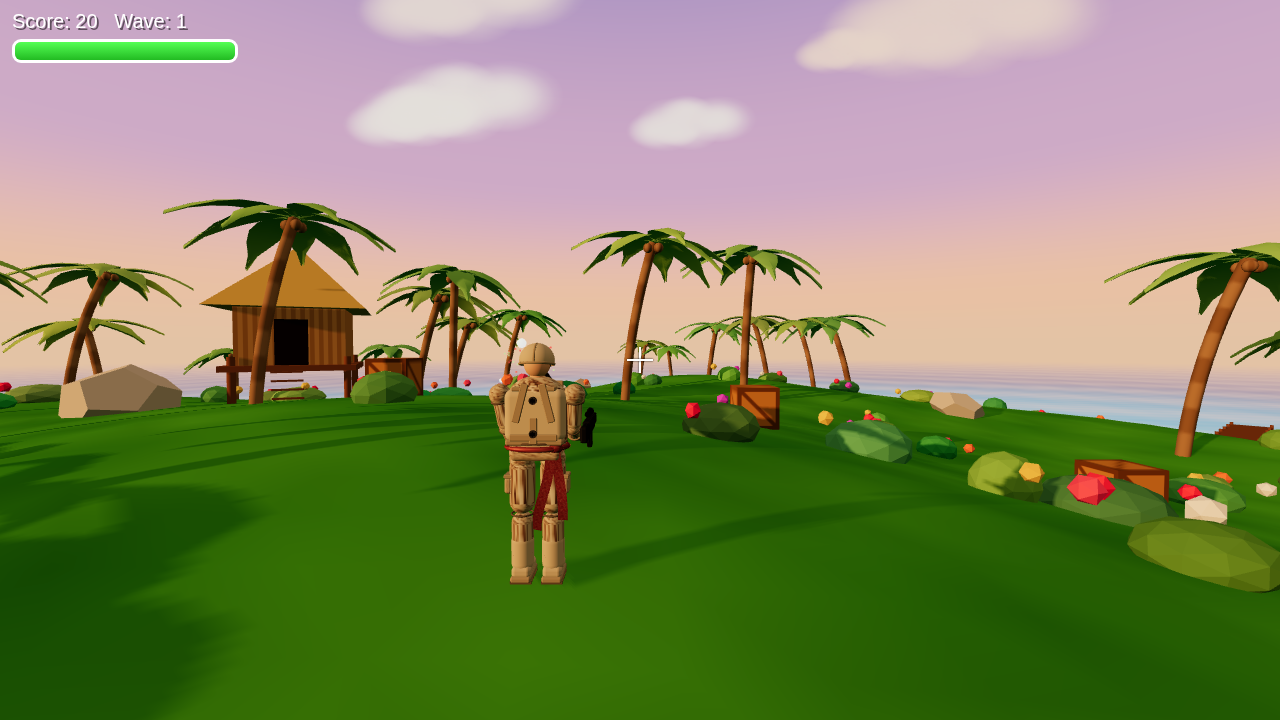
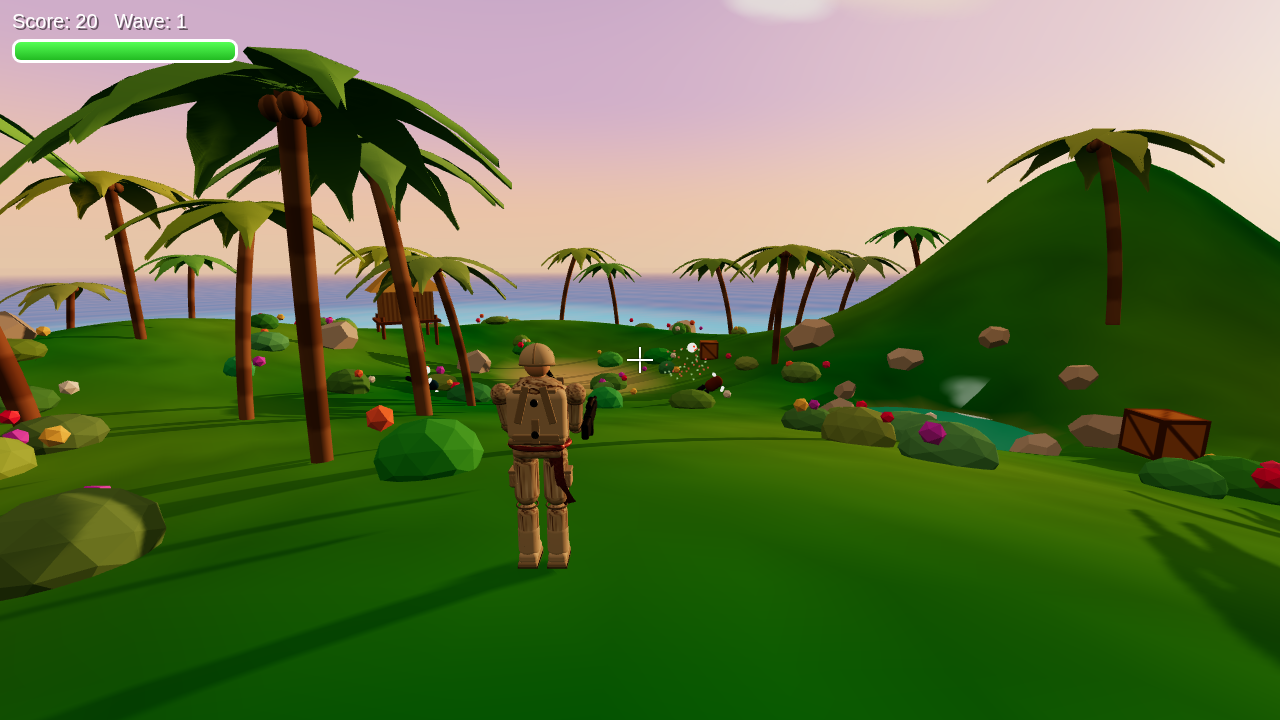
Graphics polish, slower eased auto-aim retarget

diff --git a/main.js b/main.js
@@ -3,12 +3,12 @@ import {buildWorld,groundH,islandD,shoreR,SUN_DIR,FOG_COLOR} from './world.js';
 const $=id=>document.getElementById(id),Q=new URLSearchParams(location.search),DEBUG=Q.get('debug')==='1';
 const MOBILE=matchMedia('(pointer:coarse)').matches||'ontouchstart' in window;if(MOBILE)document.body.classList.add('touch');
 const renderer=new THREE.WebGLRenderer({antialias:!MOBILE,powerPreference:'high-performance'});renderer.setPixelRatio(Math.min(devicePixelRatio,MOBILE?1.5:2));renderer.setSize(innerWidth,innerHeight);
-renderer.shadowMap.enabled=true;renderer.shadowMap.type=THREE.PCFSoftShadowMap;renderer.toneMapping=THREE.ACESFilmicToneMapping;renderer.toneMappingExposure=1.05;document.body.appendChild(renderer.domElement);
-const scene=new THREE.Scene();scene.fog=new THREE.Fog(FOG_COLOR,60,320);
+renderer.shadowMap.enabled=true;renderer.shadowMap.type=THREE.PCFSoftShadowMap;renderer.toneMapping=THREE.ACESFilmicToneMapping;renderer.toneMappingExposure=1.1;renderer.outputColorSpace=THREE.SRGBColorSpace;document.body.appendChild(renderer.domElement);
+const scene=new THREE.Scene();scene.fog=new THREE.Fog(FOG_COLOR,90,520);
 const cam=new THREE.PerspectiveCamera(70,innerWidth/innerHeight,.1,7000);cam.rotation.order='YXZ';
-scene.add(new THREE.HemisphereLight(0xffd9b0,0x4d6b3a,1.15));
+scene.add(new THREE.HemisphereLight(0xffd2a8,0x3a5230,1.0));
 const sun=new THREE.DirectionalLight(0xffb878,2.6);sun.castShadow=true;const S=MOBILE?1024:2048;sun.shadow.mapSize.set(S,S);
-Object.assign(sun.shadow.camera,{left:-30,right:30,top:30,bottom:-30,near:1,far:200});sun.shadow.bias=-.0005;sun.shadow.normalBias=.04;scene.add(sun,sun.target);
+Object.assign(sun.shadow.camera,{left:-30,right:30,top:30,bottom:-30,near:1,far:200});sun.shadow.bias=-.0003;sun.shadow.normalBias=.03;sun.shadow.radius=3;scene.add(sun,sun.target);
 const W=buildWorld(scene,MOBILE);const solids=W.solids;
 const rnd=(a,b)=>a+Math.random()*(b-a);
 const player=makeSoldier();player.rotation.order='YXZ';scene.add(player);
@@ -48,8 +48,8 @@ function moveInput(){let mx=(keys.KeyW||keys.ArrowUp?1:0)-(keys.KeyS||keys.Arrow
  const m=v.length();if(m>1)v.divideScalar(m);return m<.15?v.set(0,0,0):v;}
 // ---------- zombies ----------
 const toon=c=>new THREE.MeshLambertMaterial({color:c});
-const zSkin=toon(0x86d94e),shirts=[0xa04fd9,0xff8c2a,0x2ab3ff,0xe03a7a].map(toon),zPants=toon(0x3d4a8a),eyeM=new THREE.MeshBasicMaterial({color:0xff2a00});
-function makeZombie(){const g=new THREE.Group(),mats=[zSkin.clone(),shirts[Math.random()*4|0].clone(),zPants.clone()];mats.forEach(m=>m.transparent=true);
+const zSkin=toon(0x86d94e),shirts=[0x5a2d78,0x8a4a1c,0x1f4f6e,0x6e1f3a,0x3d4a2a].map(toon),zPants=toon(0x2a2f4a),eyeM=new THREE.MeshBasicMaterial({color:0xff2a00});
+function makeZombie(){const g=new THREE.Group(),mats=[zSkin.clone(),shirts[Math.random()*5|0].clone(),zPants.clone()];mats[0].color.offsetHSL(rnd(-.04,.04),rnd(-.15,.05),rnd(-.08,.04));mats.forEach(m=>m.transparent=true);
  const M=(geo,m,x,y,z,p=g)=>{const o=new THREE.Mesh(geo,m);o.position.set(x,y,z);o.castShadow=true;p.add(o);o.userData.root=g;return o};
  M(new THREE.CapsuleGeometry(.26,.35,4,10),mats[1],0,1.3,0).scale.set(1.1,1,.7);const head=M(new THREE.SphereGeometry(.24,14,10),mats[0],0,1.9,.06);
  M(new THREE.SphereGeometry(.05,8,6),eyeM,-.09,.04,.21,head);M(new THREE.SphereGeometry(.05,8,6),eyeM,.09,.04,.21,head);
@@ -67,21 +67,24 @@ function collide(p,r){for(const c of W.circles){const dx=p.x-c.x,dz=p.z-c.z,d=Ma
  const R=Math.hypot(p.x,p.z),lim=shoreR(Math.atan2(p.z,p.x))*.97;if(R>lim){p.x*=lim/R;p.z*=lim/R;}}
 function jump(){if(mode==='play'&&player.position.y<=groundH(player.position.x,player.position.z)+.01){vy=6.5;snd(300,.15,'sine',.1,2);}}
 // ---------- shooting / auto-aim ----------
-const rc=new THREE.Raycaster(),center=new THREE.Vector2(0,0),tmpV=new THREE.Vector3(),losRc=new THREE.Raycaster();let lockT=null,losT=0;
+const rc=new THREE.Raycaster(),center=new THREE.Vector2(0,0),tmpV=new THREE.Vector3(),losRc=new THREE.Raycaster();let lockT=null,losT=0,retWait=0,slow=null;const RET_DELAY=.25,RET_DUR=.7;
 const angD=a=>Math.atan2(Math.sin(a),Math.cos(a));
 function los(z){z.userData.head.getWorldPosition(tmpV);const d=tmpV.clone().sub(cam.position);const L=d.length();losRc.set(cam.position,d.normalize());losRc.far=L-.3;return !losRc.intersectObjects(solids,false).length;}
-function autoAim(dt){if(!(firing||fireId!==null)){lockT=null;return;}
- if(lockT&&(lockT.userData.dead||!zombies.includes(lockT)))lockT=null;
+function autoAim(dt){if(!(firing||fireId!==null)){lockT=null;slow=null;retWait=0;return;}
+ if(lockT&&(lockT.userData.dead||!zombies.includes(lockT))){lockT=null;retWait=RET_DELAY;slow=null;}
+ if(retWait>0){retWait-=dt;if(retWait>0)return;retWait=-1;}
  if(lockT&&(losT-=dt)<=0){losT=.25;if(!los(lockT))lockT=null;}
  if(!lockT){let best=null,bs=1e9;const f=new THREE.Vector3(-Math.sin(yaw),0,-Math.cos(yaw));
   for(const z of zombies){if(z.userData.dead)continue;const d=z.position.clone().sub(player.position);d.y=0;const dist=d.length();if(dist>45)continue;
-   const s=dist+Math.acos(THREE.MathUtils.clamp(d.normalize().dot(f),-1,1))*6;if(s<bs&&los(z)){bs=s;best=z;}}lockT=best;losT=.25;}
+   const s=dist+Math.acos(THREE.MathUtils.clamp(d.normalize().dot(f),-1,1))*6;if(s<bs&&los(z)){bs=s;best=z;}}lockT=best;losT=.25;if(best&&retWait<0)slow={t:0,y0:yaw,p0:pitch};retWait=0;}
  if(!lockT)return;lockT.userData.head.getWorldPosition(tmpV);const d=tmpV.clone().sub(cam.position).normalize();
- const k=Math.min(1,dt*12);yaw+=angD(Math.atan2(-d.x,-d.z)-yaw)*k;pitch+=(THREE.MathUtils.clamp(Math.asin(d.y),-.7,.55)-pitch)*k;}
-function updLock(){const el=$('lock');if(!lockT||lockT.userData.dead){el.style.display='none';return;}lockT.userData.head.getWorldPosition(tmpV);tmpV.project(cam);
+ const ty=Math.atan2(-d.x,-d.z),tp=THREE.MathUtils.clamp(Math.asin(d.y),-.7,.55);
+ if(slow){slow.t+=dt;const u=Math.min(1,slow.t/RET_DUR),e=u*u*(3-2*u);yaw=slow.y0+angD(ty-slow.y0)*e;pitch=slow.p0+(tp-slow.p0)*e;if(u>=1)slow=null;}
+ else{const k=Math.min(1,dt*12);yaw+=angD(ty-yaw)*k;pitch+=(tp-pitch)*k;}}
+function updLock(){const el=$('lock');if(!lockT||lockT.userData.dead){el.style.display='none';return;}el.style.opacity=slow?.5:1;lockT.userData.head.getWorldPosition(tmpV);tmpV.project(cam);
  if(tmpV.z>1){el.style.display='none';return;}el.style.display='block';el.style.left=((tmpV.x+1)/2*innerWidth)+'px';el.style.top=((1-tmpV.y)/2*innerHeight)+'px';}
 function shoot(){const u=player.userData;u.flash.visible=true;u.flashLight.intensity=8;u.flash.rotation.z=Math.random()*3;setTimeout(()=>{u.flash.visible=false;u.flashLight.intensity=0;},45);snd(900,.08,'square',.12,.2);
- if(lockT){lockT.userData.head.getWorldPosition(tmpV);rc.set(cam.position,tmpV.clone().sub(cam.position).normalize());}else rc.setFromCamera(center,cam);rc.far=150;
+ if(lockT&&!slow){lockT.userData.head.getWorldPosition(tmpV);rc.set(cam.position,tmpV.clone().sub(cam.position).normalize());}else rc.setFromCamera(center,cam);rc.far=150;
  const hits=rc.intersectObjects([...zombies.filter(z=>!z.userData.dead),...solids,W.ground],true);
  const o=new THREE.Vector3();u.muzzle.getWorldPosition(o);let end=hits.length?hits[0].point:rc.ray.at(150,new THREE.Vector3());
  if(hits.length){const z=hits[0].object.userData.root;if(z&&!z.userData.dead){z.userData.hp--;z.userData.hit=.1;const p=end.clone().sub(o).setY(0).normalize();z.position.addScaledVector(p,.25);
@@ -168,12 +171,12 @@ function loop(){requestAnimationFrame(loop);const dt=Math.min(clock.getDelta(),.
  else{const right=new THREE.Vector3(Math.cos(yaw),0,-Math.sin(yaw));cam.rotation.set(pitch,yaw,0);const f=new THREE.Vector3(0,0,-1).applyEuler(cam.rotation);
   const piv=new THREE.Vector3(P.x,P.y+1.75,P.z).addScaledVector(right,.8);const back=f.clone().negate();camRc.set(piv,back);camRc.far=4;const ch=camRc.intersectObjects(solids,false);
   cam.position.copy(piv).addScaledVector(back,ch.length?Math.max(.4,ch[0].distance-.3):4);const g=groundH(cam.position.x,cam.position.z)+.3;if(cam.position.y<g)cam.position.y=g;}
- const alt=Math.max(0,cam.position.y);scene.fog.near=60+alt*.6;scene.fog.far=320+alt*1.9;W.fogU.fogNear.value=scene.fog.near;W.fogU.fogFar.value=scene.fog.far;
+ const alt=Math.max(0,cam.position.y);scene.fog.near=90+alt*.7;scene.fog.far=520+alt*2.2;W.fogU.fogNear.value=scene.fog.near;W.fogU.fogFar.value=scene.fog.far;
  const nn=alt>150?1.5:.1;if(cam.near!==nn){cam.near=nn;cam.updateProjectionMatrix();}
  const sc=mode==='intro'?(iPhase==='heli'?heli.position:P):P;sun.position.copy(sc).addScaledVector(SUN_DIR,90);sun.target.position.copy(sc);
  W.update(T,cam);renderer.render(scene,cam);}
 if(closeup){$('start').classList.add('hide');$('hud').classList.add('hide');}
-if(DEBUG)window.__game={get mode(){return mode},get phase(){return iPhase},get score(){return score},get heads(){return headsDetached},get yaw(){return yaw},get alt(){return player.position.y},
+if(DEBUG)window.__game={get mode(){return mode},get phase(){return iPhase},get score(){return score},get heads(){return headsDetached},get yaw(){return yaw},get alt(){return player.position.y},get retarget(){return {slow:!!slow,retWait}},
  setAlt(y){player.position.y=y;},overview(on){camOverride=on?[new THREE.Vector3(...on[0]),new THREE.Vector3(...on[1])]:null;},
  spawnNear(){spawn();const z=zombies[zombies.length-1];z.position.set(player.position.x-Math.sin(yaw)*5,0,player.position.z-Math.cos(yaw)*5);z.position.y=groundH(z.position.x,z.position.z);z.userData.hp=1;}};
 loop();

diff --git a/world.js b/world.js
@@ -32,13 +32,17 @@ export function buildWorld(scene,MOBILE){
  const cloudMats=[0xffe0cc,0xffd0b8,0xfff0e0].map(c=>new THREE.SpriteMaterial({map:ct,color:c,transparent:true,opacity:.92,fog:false,depthWrite:false}));
  const NC=MOBILE?45:80;for(let i=0;i<NC;i++){const s=new THREE.Sprite(cloudMats[i%3]);const near=i<NC*.2,ca=rnd(0,6.28),cr=near?rnd(90,220):rnd(220,1200);
   s.position.set(Math.cos(ca)*cr,rnd(430,650),Math.sin(ca)*cr);const k=rnd(140,300);s.scale.set(k*1.6,k,1);scene.add(s);}
+ updaters.push((t,cam)=>{const y=cam.position.y;const inside=y>380&&y<820;cloudMats.forEach(m=>m.opacity+=((inside?.38:.85)-m.opacity)*.08);});
+ {const c=document.createElement('canvas');c.width=c.height=128;const g=c.getContext('2d');const gr=g.createRadialGradient(64,64,0,64,64,64);gr.addColorStop(0,'rgba(255,240,200,1)');gr.addColorStop(.15,'rgba(255,190,120,.6)');gr.addColorStop(1,'rgba(255,140,80,0)');g.fillStyle=gr;g.fillRect(0,0,128,128);
+  const glow=new THREE.Sprite(new THREE.SpriteMaterial({map:new THREE.CanvasTexture(c),blending:THREE.AdditiveBlending,fog:false,depthWrite:false,transparent:true,opacity:MOBILE?.6:.9}));glow.scale.set(520,520,1);scene.add(glow);
+  updaters.push((t,cam)=>glow.position.copy(cam.position).addScaledVector(SUN_DIR,3000));}
  // ---- terrain ----
  const SEG=MOBILE?110:170,SZ=170;const tg=new THREE.PlaneGeometry(SZ,SZ,SEG,SEG);tg.rotateX(-Math.PI/2);const P=tg.attributes.position,col=new Float32Array(P.count*3),c=new THREE.Color();
  const sand=new THREE.Color(0xf2d9a2),wet=new THREE.Color(0xc9a979),grass=new THREE.Color(0x5db436),grass2=new THREE.Color(0x3f8f2a),under=new THREE.Color(0xd8c8a0);
- for(let i=0;i<P.count;i++){const x=P.getX(i),z=P.getZ(i),h=groundH(x,z);P.setY(i,h);const n=Math.sin(x*.9)*Math.cos(z*.8)*.5+.5;
+ for(let i=0;i<P.count;i++){const x=P.getX(i),z=P.getZ(i),h=groundH(x,z);P.setY(i,h);const n=Math.sin(x*.9)*Math.cos(z*.8)*.5+.5,patch=Math.sin(x*.21+z*.13)*Math.cos(z*.19-x*.07);
   if(h<-.05)c.copy(under).lerp(new THREE.Color(0x8fc9b0),Math.min(1,-h/6));else if(h<.25)c.copy(wet).lerp(sand,h/.25);else if(h<.95)c.copy(sand);
-  else if(h<1.4)c.copy(sand).lerp(grass,(h-.95)/.45);else c.copy(grass).lerp(grass2,Math.min(1,n*.6+(h-2)*.06));
-  c.offsetHSL(0,0,(Math.random()-.5)*.03);col.set([c.r,c.g,c.b],i*3);}
+  else if(h<1.4)c.copy(sand).lerp(grass,(h-.95)/.45);else{c.copy(grass).lerp(grass2,Math.min(1,Math.max(0,n*.4+patch*.35+.25)));c.offsetHSL(patch*.02,0,0);}
+  const ao=h>0?THREE.MathUtils.clamp(.82+(h-groundH(x+1.5,z)*.5-groundH(x-1.5,z)*.5)*.25+ (h-groundH(x,z+1.5)*.5-groundH(x,z-1.5)*.5)*.25,.7,1.05):1;c.multiplyScalar(ao+.1);c.offsetHSL(0,0,(Math.random()-.5)*.03);col.set([c.r,c.g,c.b],i*3);}
  tg.setAttribute('color',new THREE.BufferAttribute(col,3));tg.computeVertexNormals();
  const ground=new THREE.Mesh(tg,new THREE.MeshLambertMaterial({vertexColors:true}));ground.receiveShadow=true;scene.add(ground);
  // ---- ocean ----
@@ -49,13 +53,13 @@ export function buildWorld(scene,MOBILE){
   void main(){vec2 p=wp.xz;float a=atan(p.y,p.x);float d=length(p)/shoreR(a);float t=time;
    vec2 g=vec2(.8,.6)*cos(dot(p,vec2(.8,.6))*.35+t*1.3)*.5+vec2(-.5,.86)*cos(dot(p,vec2(-.5,.86))*.53+t*1.7)*.35+vec2(.2,-.98)*cos(dot(p,vec2(.2,-.98))*1.1+t*2.3)*.2+vec2(.95,.3)*cos(dot(p,vec2(.95,.3))*2.3-t*2.9)*.12;
    float dist=length(cameraPosition-wp);float att=1./(1.+dist*.025);vec3 n=normalize(vec3(-g.x*.35*att,1.,-g.y*.35*att));vec3 v=normalize(cameraPosition-wp);
-   vec3 col=mix(vec3(.18,.85,.78),vec3(.03,.38,.6),smoothstep(1.,1.35,d));col=mix(col,vec3(.01,.1,.3),smoothstep(1.3,2.6,d));
-   float fr=pow(1.-max(dot(n,v),0.),4.);col=mix(col,vec3(.95,.6,.45),fr*.45);
+   vec3 col=mix(vec3(.2,.88,.8),vec3(.02,.42,.62),smoothstep(1.,1.3,d));col=mix(col,vec3(.0,.13,.33),smoothstep(1.25,2.2,d));col=mix(col,vec3(.0,.07,.2),smoothstep(2.2,8.,d));
+   float fr=pow(1.-max(dot(n,v),0.),4.);col=mix(col,vec3(.75,.42,.42),fr*.3);col*=.92+.16*(n.x*3.+.5);
    vec3 r=reflect(-sunDir,n);float sp=max(dot(r,v),0.);col+=vec3(1.,.75,.45)*(pow(sp,80.)*1.2+pow(sp,1200.)*8.);
    float wv=sin(t*1.4+a*30.)*.006+sin(t*.9)*.01;float f=smoothstep(1.04+wv,1.0,d)*step(.995,d+.01);float st=.55+.45*sin(p.x*2.1+t*2.)*sin(p.y*2.3-t*1.6);
    f=max(f*st,smoothstep(1.075+wv,1.06+wv,d)*smoothstep(1.045+wv,1.06+wv,d)*.6);col=mix(col,vec3(1.),clamp(f,0.,1.)*.9);
    float al=mix(.55,1.,smoothstep(1.,1.25,d));
-   col=mix(col,fogColor,smoothstep(fogNear,fogFar,dist));gl_FragColor=vec4(col,max(al,f));
+   col=mix(col,fogColor,smoothstep(fogNear*1.5,fogFar*1.8,dist)*.9);gl_FragColor=vec4(col,max(al,f));
    #include <tonemapping_fragment>
    #include <colorspace_fragment>
   }`}));water.rotation.x=-Math.PI/2;water.position.y=.02;scene.add(water);
@@ -89,7 +93,7 @@ export function buildWorld(scene,MOBILE){
  const NP=MOBILE?40:70;const trunks=new THREE.InstancedMesh(trunkG,new THREE.MeshLambertMaterial({map:ringT}),NP),fronds=new THREE.InstancedMesh(frondG,new THREE.MeshLambertMaterial({color:0xffffff,side:THREE.DoubleSide}),NP);
  trunks.castShadow=fronds.castShadow=true;fronds.receiveShadow=true;const fc=new THREE.Color();
  for(let i=0;i<NP;i++){const beach=i<NP*.45;const[x,z]=free(.9,beach?.95:.8,beach?.8:.2,6);const y=groundH(x,z)-.1,ry=rnd(0,6.28),s=rnd(.8,1.25);setM(trunks,i,x,y,z,ry,s);setM(fronds,i,x,y,z,ry,s);
-  fronds.setColorAt(i,fc.setHSL(rnd(.24,.32),rnd(.55,.75),rnd(.28,.4)));circles.push({x,z,r:.45});}
+  fronds.setColorAt(i,fc.setHSL(rnd(.2,.33),rnd(.5,.8),rnd(.26,.42)));trunks.setColorAt(i,fc.setHSL(rnd(.06,.1),rnd(.2,.4),rnd(.6,.9)));circles.push({x,z,r:.45});}
  scene.add(trunks,fronds);solids.push(trunks);
  // ---- bushes & flowers ----
  const NB=MOBILE?70:130,NF=MOBILE?110:220;const bush=new THREE.InstancedMesh(new THREE.IcosahedronGeometry(1,1),new THREE.MeshLambertMaterial({flatShading:true}),NB),flw=new THREE.InstancedMesh(new THREE.IcosahedronGeometry(.18,0),new THREE.MeshLambertMaterial({emissive:0x221111}),NF);
@@ -110,7 +114,8 @@ export function buildWorld(scene,MOBILE){
  {const dx=POND.x-HILL.x,dz=POND.z-HILL.z,L=Math.hypot(dx,dz),ux=dx/L,uz=dz/L;const tx=HILL.x+ux*4.2,tz=HILL.z+uz*4.2,top=groundH(tx,tz)+.3,bx=POND.x-ux*3,bz=POND.z-uz*3;
   const T=new THREE.Vector3(tx,top,tz),B=new THREE.Vector3(bx,pondY,bz),yA=T.clone().sub(B),len=yA.length();yA.normalize();const xA=new THREE.Vector3(-uz,0,ux),zA=new THREE.Vector3().crossVectors(xA,yA);
   const wf=new THREE.Mesh(new THREE.PlaneGeometry(1.8,len),new THREE.MeshBasicMaterial({map:wfT,transparent:true,opacity:.9,side:THREE.DoubleSide}));
-  wf.quaternion.setFromRotationMatrix(new THREE.Matrix4().makeBasis(xA,yA,zA));wf.position.copy(T).add(B).multiplyScalar(.5).addScaledVector(zA,.6);scene.add(wf);
+  wf.quaternion.setFromRotationMatrix(new THREE.Matrix4().makeBasis(xA,yA,zA));wf.position.copy(T).add(B).multiplyScalar(.5).addScaledVector(zA,.6);scene.add(wf);const wf2=wf.clone();wf2.material=wf.material.clone();wf2.material.map=wfT.clone();wf2.material.opacity=.45;wf2.scale.set(1.25,1,1);wf2.position.addScaledVector(zA,.08);scene.add(wf2);
+  const mist=new THREE.Sprite(new THREE.SpriteMaterial({map:ct,color:0xffffff,transparent:true,opacity:.55,depthWrite:false}));mist.position.set(bx,pondY+.8,bz);mist.scale.set(4,2.2,1);scene.add(mist);updaters.push(t=>{wf2.material.map.offset.y=t*2.3;mist.material.opacity=.45+Math.sin(t*3)*.1;});
   const foam=new THREE.Mesh(new THREE.CircleGeometry(1.4,16),new THREE.MeshBasicMaterial({color:0xffffff,transparent:true,opacity:.6}));foam.rotation.x=-Math.PI/2;foam.position.set(bx,pondY+.03,bz);scene.add(foam);
   updaters.push(t=>{wfT.offset.y=t*1.5;foam.scale.setScalar(1+Math.sin(t*6)*.1);});}
  // ---- crates ----
